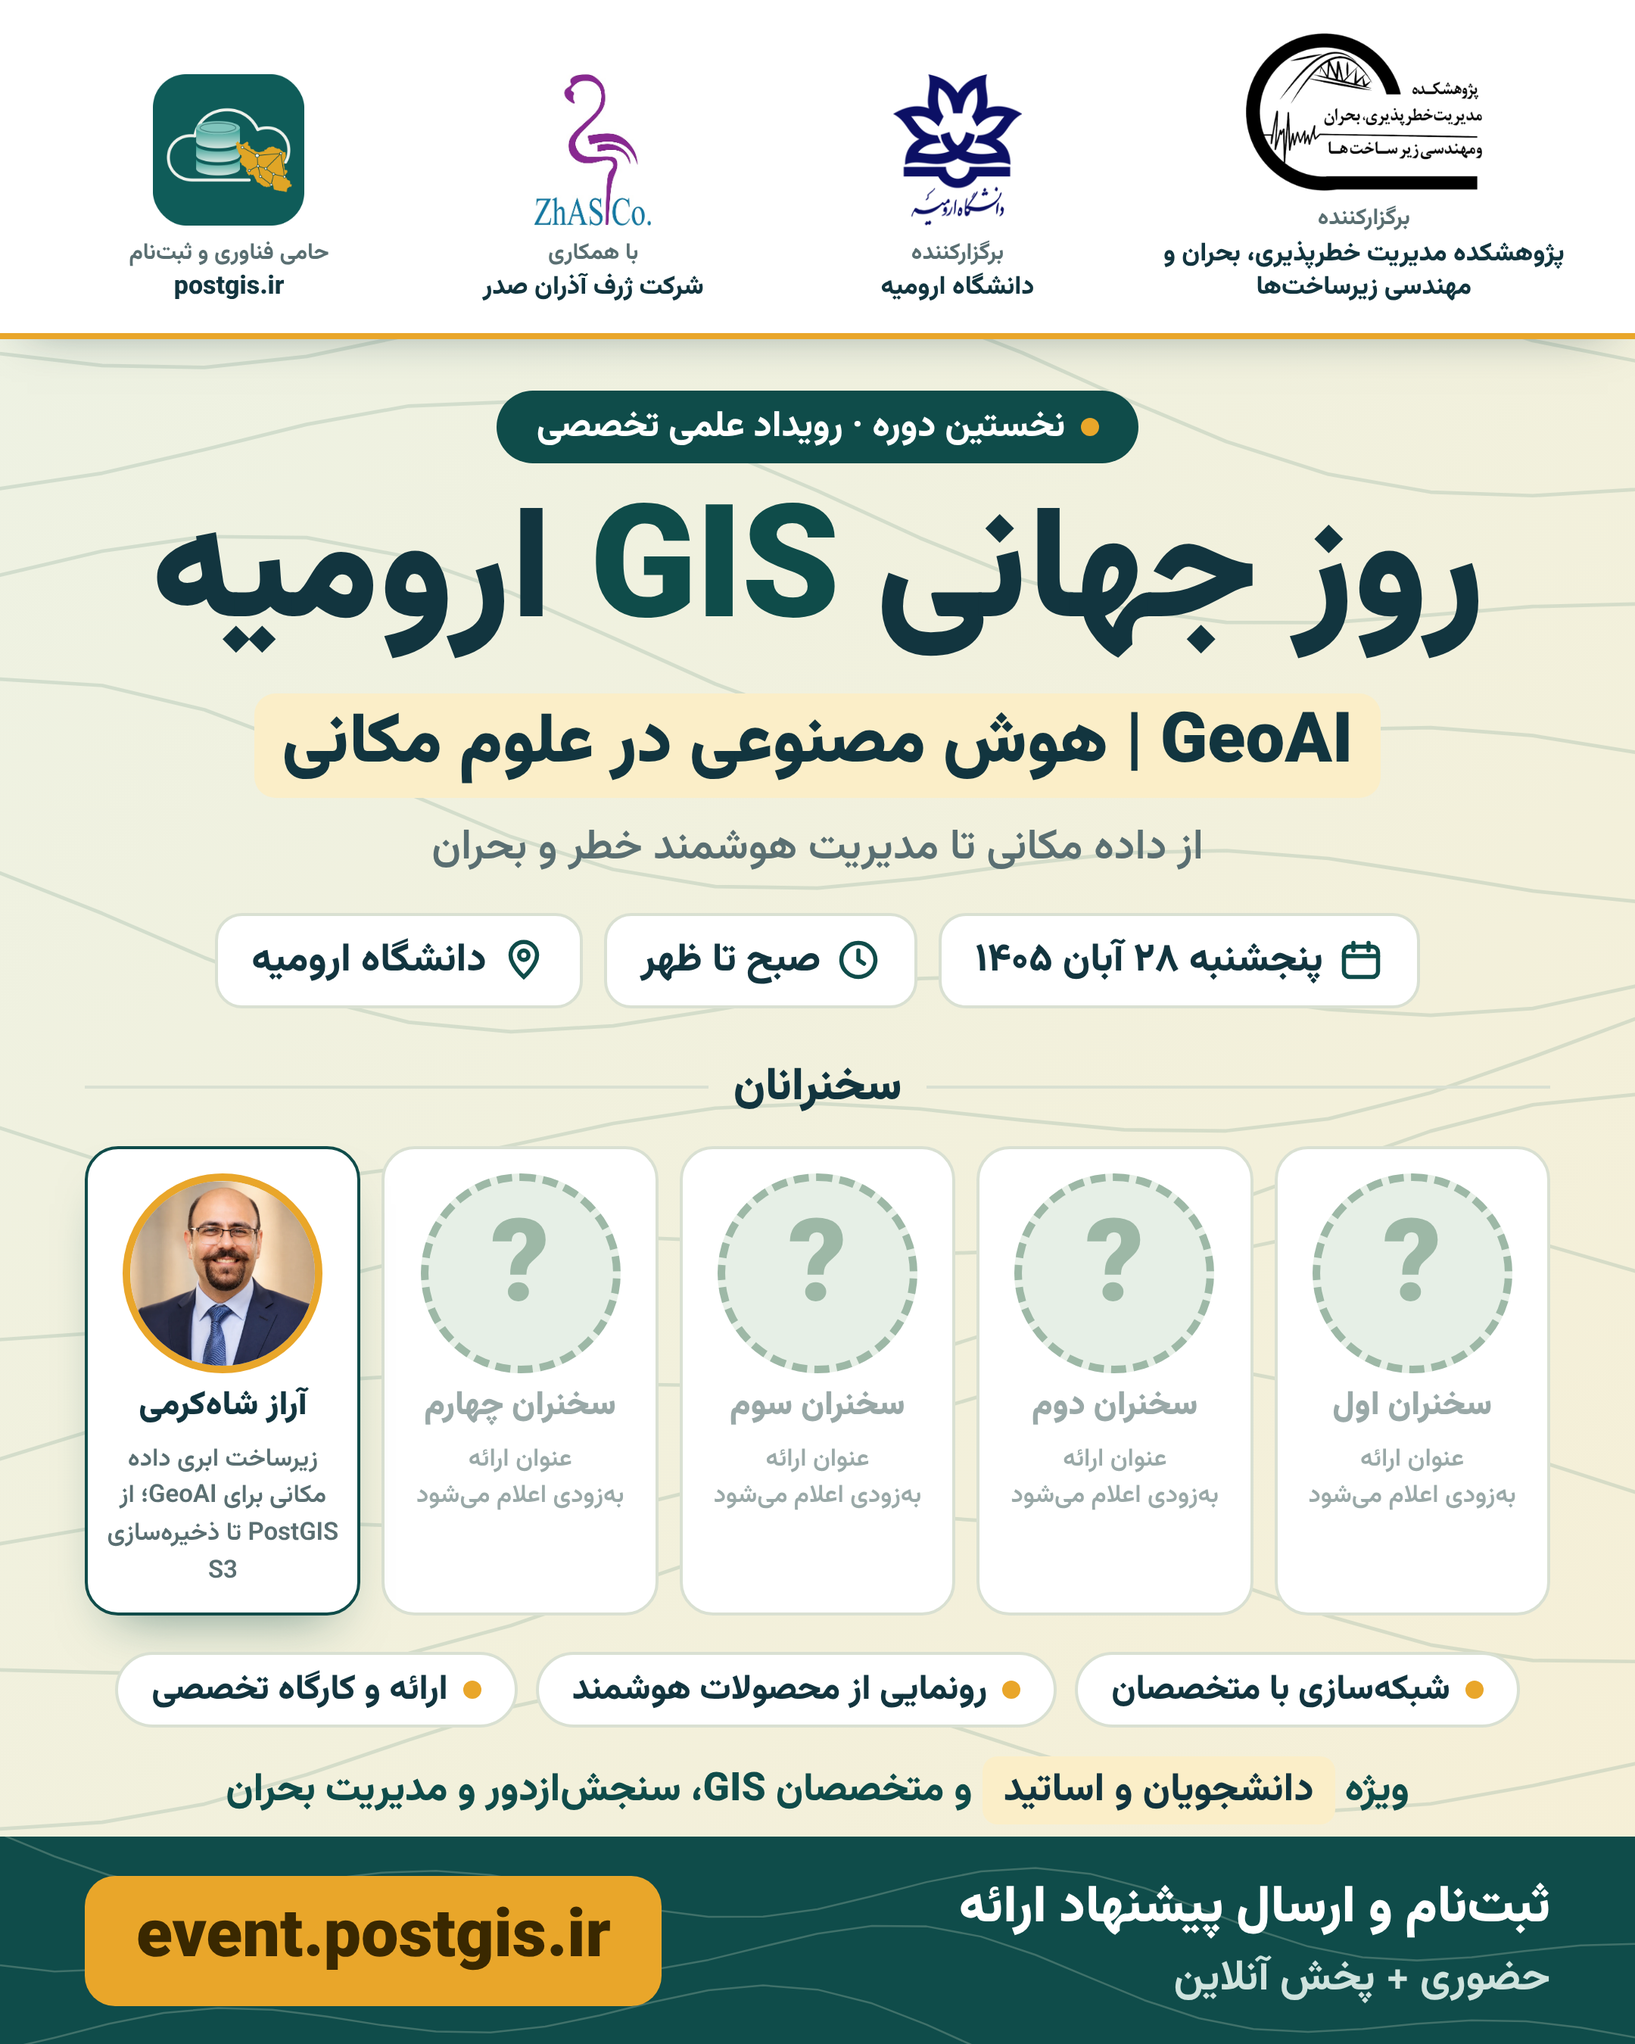
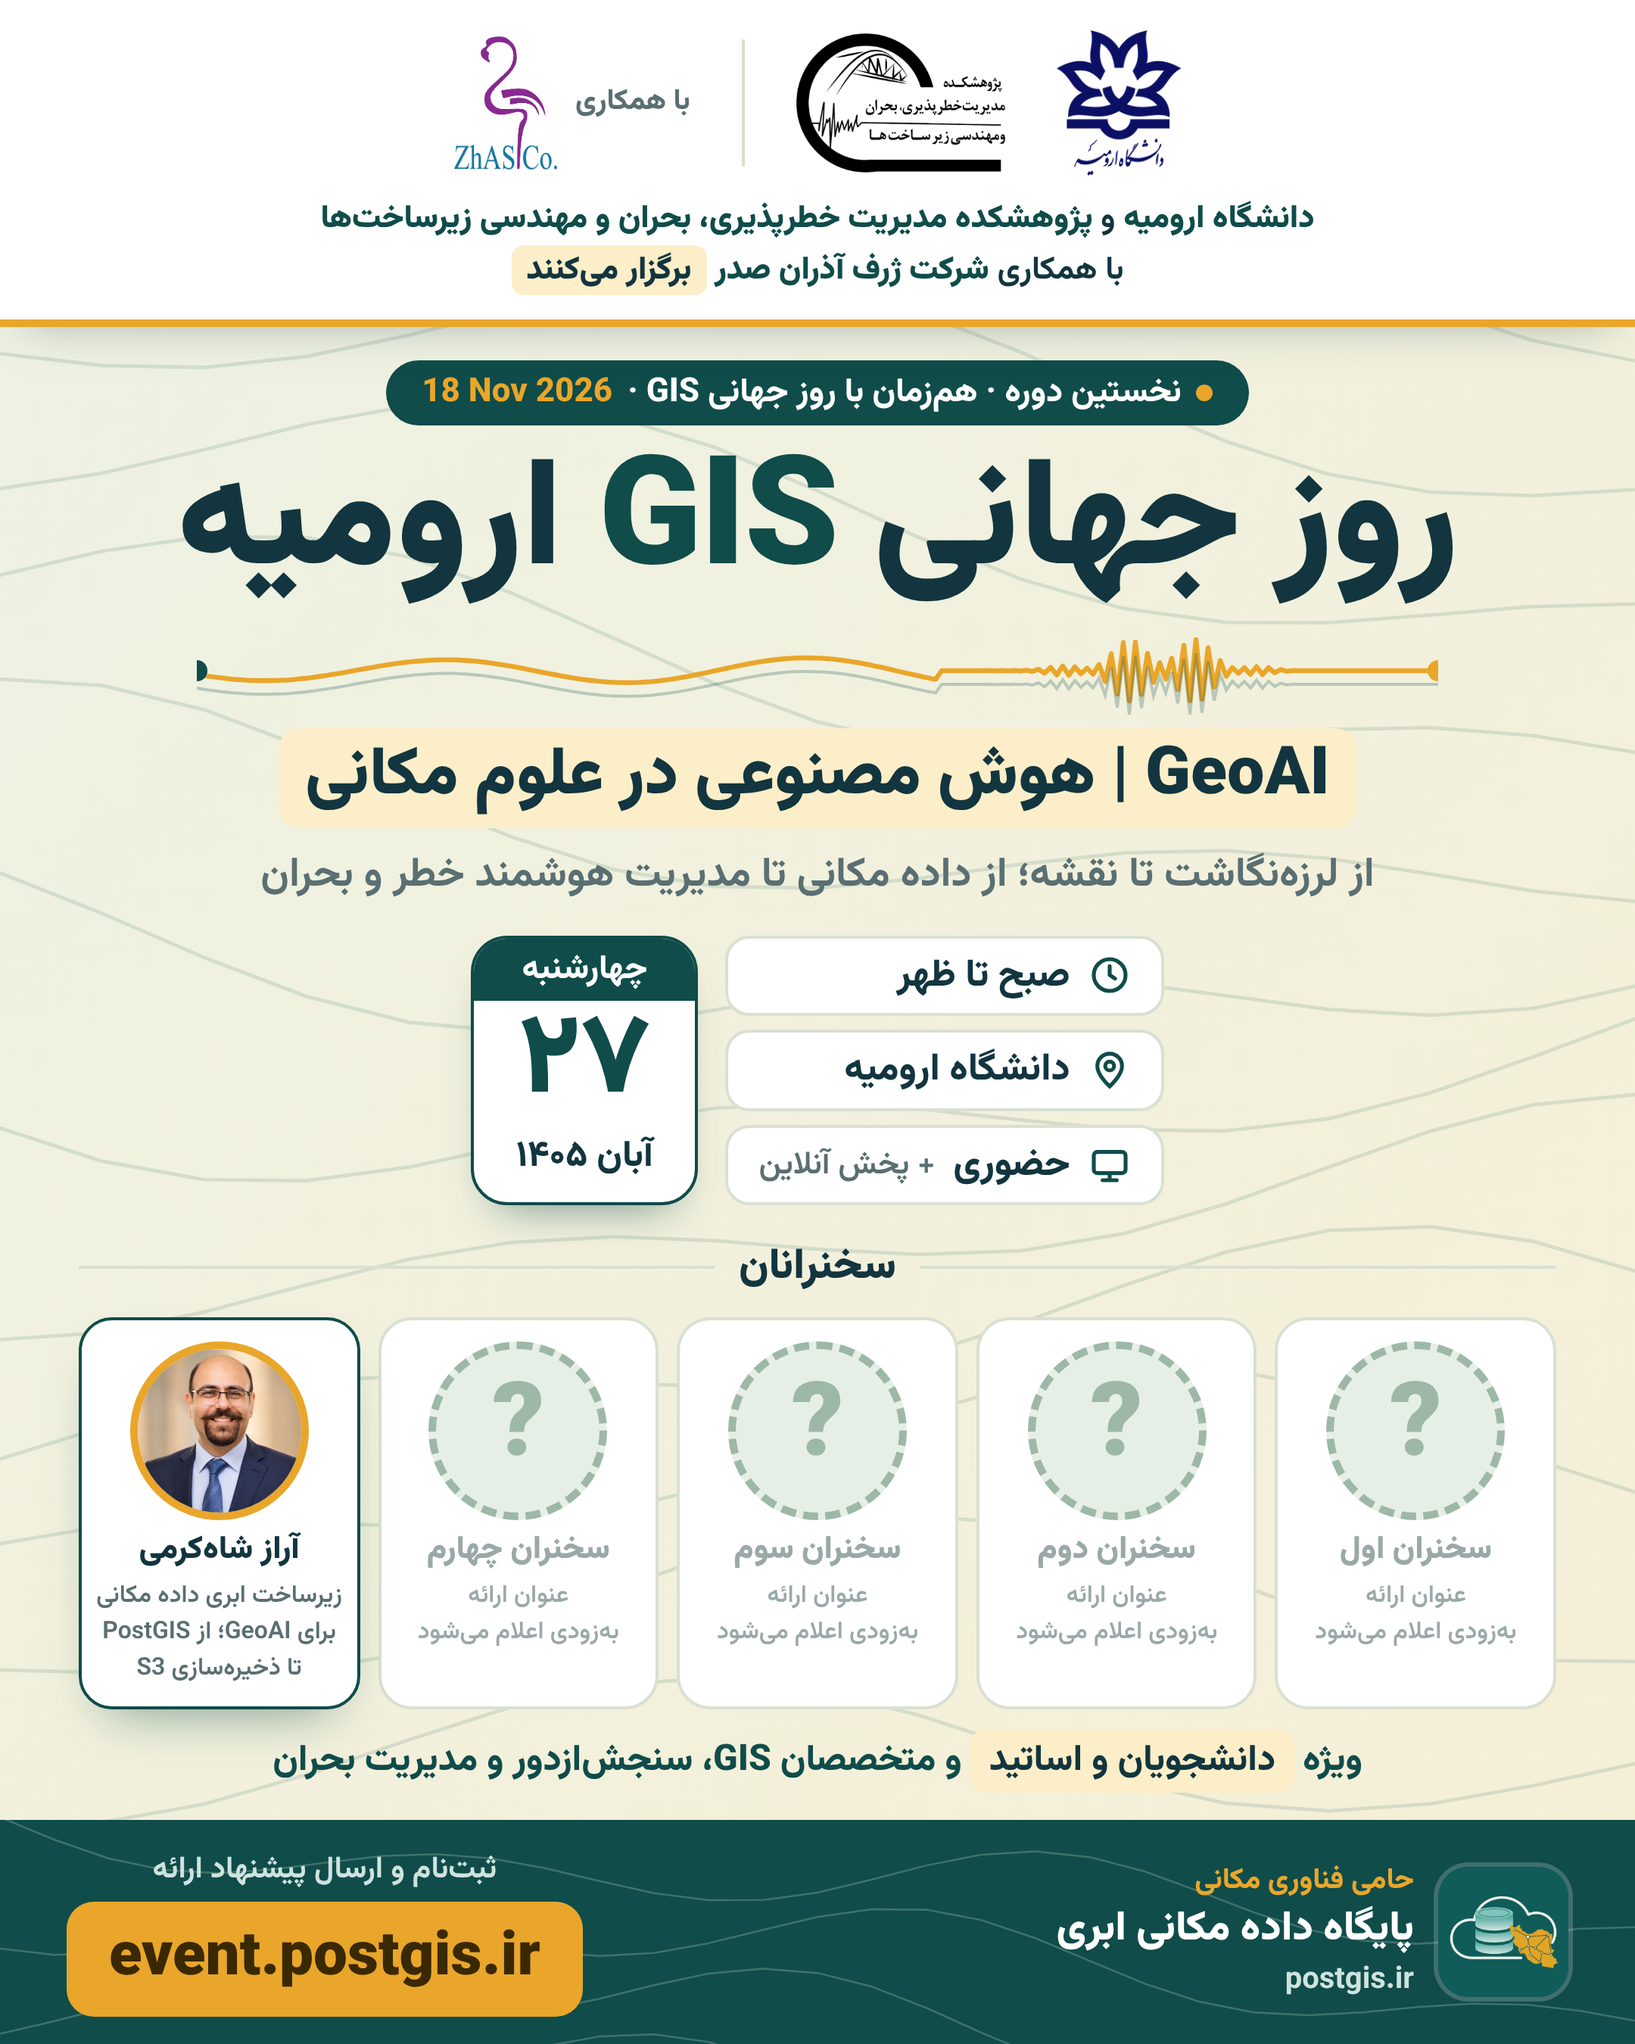
Teaser poster: move to Wed 27 Aban (18 Nov), organiser statement, postgis.ir as spatial tech sponsor
Claude-Session: https://claude.ai/code/session_01611Z92RBWte6qBpQNsvh7V

diff --git a/promo/src/teaser.html b/promo/src/teaser.html
@@ -2,69 +2,103 @@
 <style>
 html,body{width:1080px;height:1350px}
 .wrap{position:absolute;inset:0;display:flex;flex-direction:column}
-/* organisers strip */
-.orgs{background:#fff;border-bottom:4px solid var(--ac);padding:22px 40px 18px;display:grid;grid-template-columns:1.25fr 1fr 1fr 1fr;gap:18px;align-items:end;text-align:center;box-shadow:0 10px 30px -18px #12353f80;position:relative;z-index:2}
-.org img{height:100px;max-width:100%;object-fit:contain;display:block;margin:0 auto 8px}
-.org.inst img{height:104px}
-.org small{display:block;font-size:15px;color:var(--mut);font-weight:700;letter-spacing:0}
-.org b{display:block;font-size:17px;font-weight:800;line-height:1.35;color:var(--tx)}
-.main{flex:1;padding:34px 56px 0;display:flex;flex-direction:column;align-items:center;text-align:center;gap:16px;position:relative}
-.kicker{display:inline-flex;gap:10px;align-items:center;background:var(--pri);color:#fff;font-weight:800;font-size:24px;padding:6px 26px;border-radius:99px}
-.kicker i{width:12px;height:12px;border-radius:50%;background:var(--ac)}
-h1{font-size:104px;font-weight:900;line-height:1.15;letter-spacing:-1px}
+/* organisers */
+.orgs{background:#fff;border-bottom:5px solid var(--ac);padding:20px 40px 16px;text-align:center;position:relative;z-index:2;box-shadow:0 10px 30px -18px #12353f80}
+.logos{display:flex;align-items:center;justify-content:center;gap:34px}
+.logos img{display:block;object-fit:contain}
+.sep{width:2px;height:84px;background:var(--line)}
+.with{display:flex;align-items:center;gap:12px;font-size:19px;font-weight:800;color:var(--mut)}
+.statement{margin-top:12px;font-size:21px;font-weight:700;color:var(--tx);line-height:1.6}
+.statement b{color:var(--pri);font-weight:900}
+.statement .v{background:var(--acsoft);padding:0 10px;border-radius:8px;font-weight:900}
+.main{flex:1;padding:22px 52px 0;display:flex;flex-direction:column;align-items:center;text-align:center;gap:12px;position:relative}
+.kicker{display:inline-flex;gap:10px;align-items:center;background:var(--pri);color:#fff;font-weight:800;font-size:22px;padding:5px 24px;border-radius:99px}
+.kicker i{width:11px;height:11px;border-radius:50%;background:var(--ac)}
+.kicker span{direction:ltr;color:var(--ac)}
+h1{font-size:100px;font-weight:900;line-height:1.1;letter-spacing:-1px}
 h1 em{font-style:normal;color:var(--pri)}
-.axis{font-size:46px;font-weight:900}
-.sub{font-size:28px;font-weight:600;color:var(--mut);margin-top:-4px}
-.info{display:flex;gap:14px;justify-content:center;margin-top:6px}
-.info div{background:#fff;border:2px solid var(--line);border-radius:18px;padding:10px 22px;font-size:26px;font-weight:800;display:flex;gap:10px;align-items:center}
-.info svg{flex:none}
-.speakers{width:100%;margin-top:14px}
-.sp-title{display:flex;align-items:center;gap:16px;font-size:30px;font-weight:900;margin-bottom:16px}
+.wave{margin:-4px 0 -6px}
+.axis{font-size:44px;font-weight:900}
+.sub{font-size:27px;font-weight:700;color:var(--mut)}
+/* date block */
+.when{display:flex;gap:18px;align-items:stretch;margin-top:6px}
+.cal{width:150px;border-radius:24px;overflow:hidden;background:#fff;border:2px solid var(--pri);box-shadow:0 16px 30px -18px #0f4c4aaa;flex:none}
+.cal .h{background:var(--pri);color:#fff;font-size:22px;font-weight:800;padding:4px 0}
+.cal .d{font-size:74px;font-weight:900;line-height:1.15;color:var(--pri)}
+.cal .m{font-size:24px;font-weight:800;padding-bottom:6px}
+.facts{display:flex;flex-direction:column;gap:9px;justify-content:center}
+.facts div{display:flex;align-items:center;gap:12px;background:#fff;border:2px solid var(--line);border-radius:16px;padding:6px 20px;font-size:25px;font-weight:800;text-align:right}
+.facts small{font-weight:600;color:var(--mut);font-size:21px}
+/* speakers */
+.speakers{width:100%;margin-top:8px}
+.sp-title{display:flex;align-items:center;gap:16px;font-size:28px;font-weight:900;margin-bottom:12px}
 .sp-title:before,.sp-title:after{content:"";flex:1;height:2px;background:var(--line)}
-.grid{display:grid;grid-template-columns:repeat(5,1fr);gap:14px}
-.sp{background:#fff;border:2px solid var(--line);border-radius:22px;padding:16px 10px 14px;display:flex;flex-direction:column;align-items:center;gap:8px}
-.ph{width:132px;height:132px;border-radius:50%;border:5px solid var(--ac);overflow:hidden;background:var(--bg2);display:grid;place-items:center;font-size:76px;font-weight:900;color:var(--pri)}
+.grid{display:grid;grid-template-columns:repeat(5,1fr);gap:12px}
+.sp{background:#fff;border:2px solid var(--line);border-radius:22px;padding:14px 8px 12px;display:flex;flex-direction:column;align-items:center;gap:6px}
+.ph{width:118px;height:118px;border-radius:50%;border:5px solid var(--ac);overflow:hidden;background:var(--bg2);display:grid;place-items:center;font-size:68px;font-weight:900;color:var(--pri)}
 .ph img{width:100%;height:100%;object-fit:cover}
 .sp.ghost .ph{border-style:dashed;border-color:#9db8a6;color:#9db8a6}
-.sp .nm{font-size:22px;font-weight:900;line-height:1.3}
-.sp .tt{font-size:16.5px;font-weight:600;color:var(--mut);line-height:1.5}
+.sp .nm{font-size:21px;font-weight:900;line-height:1.3}
+.sp .tt{font-size:16px;font-weight:600;color:var(--mut);line-height:1.5}
 .sp.ghost .nm,.sp.ghost .tt{color:#9aa9a8}
 .sp.star{border-color:var(--pri);box-shadow:0 18px 36px -20px #0f4c4a99}
-.for{font-size:26px;font-weight:800;color:var(--pri);margin-top:6px}
-.for span{background:var(--acsoft);padding:2px 14px;border-radius:10px;color:var(--tx)}
-.feats{display:flex;gap:12px;justify-content:center;margin-top:8px}.feats div{background:#fff;border:2px solid var(--line);border-radius:99px;padding:6px 22px;font-size:23px;font-weight:800}.feats div:before{content:'';display:inline-block;width:12px;height:12px;border-radius:50%;background:var(--ac);margin-inline-end:10px}
-.cta{margin-top:auto;background:var(--pri);color:#fff;padding:22px 56px;display:flex;align-items:center;justify-content:space-between;background-image:url(../../core/static/core/contours.svg);background-size:cover}
-.cta .l{font-size:28px;font-weight:700;color:#cfe3de}.cta .l b{display:block;color:#fff;font-size:34px;font-weight:900}
-.cta .u{direction:ltr;background:var(--ac);color:#3a2800;font-size:44px;font-weight:900;padding:10px 34px;border-radius:20px}
+.for{font-size:24px;font-weight:800;color:var(--pri);margin-top:4px}
+.for span{background:var(--acsoft);padding:2px 12px;border-radius:10px;color:var(--tx)}
+/* bottom */
+.bottom{margin-top:auto;background:var(--pri);color:#fff;padding:18px 44px;display:flex;align-items:center;justify-content:space-between;gap:24px;background-image:url(../../core/static/core/contours.svg);background-size:cover}
+.spon{display:flex;align-items:center;gap:16px}
+.spon img{width:86px;height:86px;border-radius:20px;box-shadow:0 0 0 3px #ffffff33}
+.spon small{display:block;color:var(--ac);font-size:19px;font-weight:800}
+.spon b{display:block;font-size:27px;font-weight:900;line-height:1.35}
+.spon span{display:block;direction:ltr;text-align:right;color:#cfe3de;font-size:20px;font-weight:700}
+.reg{text-align:center}
+.reg small{display:block;font-size:20px;font-weight:700;color:#cfe3de;margin-bottom:6px}
+.reg .u{direction:ltr;background:var(--ac);color:#3a2800;font-size:40px;font-weight:900;padding:8px 28px;border-radius:18px}
 </style></head><body>
 <div class="bg"></div>
 <div class="wrap">
  <div class="orgs">
-  <div class="org inst"><img src="../assets/logo-pajooheshkadeh-trim.png"><small>برگزارکننده</small><b>پژوهشکده مدیریت خطرپذیری، بحران و مهندسی زیرساختها</b></div>
-  <div class="org"><img src="../assets/logo-urmia-university-trim.png"><small>برگزارکننده</small><b>دانشگاه ارومیه</b></div>
-  <div class="org"><img src="../assets/logo-zhasco-trim.png"><small>با همکاری</small><b>شرکت ژرف آذران صدر</b></div>
-  <div class="org"><img src="../assets/logo-postgis.png" style="border-radius:18px"><small>حامی فناوری و ثبتنام</small><b>postgis.ir</b></div>
+  <div class="logos">
+   <img src="../assets/logo-urmia-university-trim.png" style="height:96px">
+   <img src="../assets/logo-pajooheshkadeh-trim.png" style="height:92px">
+   <div class="sep"></div>
+   <div class="with">با همکاری<img src="../assets/logo-zhasco-trim.png" style="height:88px"></div>
+  </div>
+  <div class="statement"><b>دانشگاه ارومیه</b> و <b>پژوهشکده مدیریت خطرپذیری، بحران و مهندسی زیرساختها</b><br>با همکاری <b>شرکت ژرف آذران صدر</b> <span class="v">برگزار میکنند</span></div>
  </div>
  <div class="main">
-  <div class="kicker"><i></i>نخستین دوره · رویداد علمی تخصصی</div>
+  <div class="kicker"><i></i>نخستین دوره · همزمان با روز جهانی GIS · <span>18 Nov 2026</span></div>
   <h1>روز جهانی <em>GIS</em> ارومیه</h1>
+  <div class="wave" id="wave"></div>
   <div class="axis"><mark>GeoAI | هوش مصنوعی در علوم مکانی</mark></div>
-  <div class="sub">از داده مکانی تا مدیریت هوشمند خطر و بحران</div>
-  <div class="info">
-   <div><svg width="30" height="30" viewBox="0 0 24 24" fill="none" stroke="#0f4c4a" stroke-width="2.2" stroke-linecap="round"><rect x="3" y="5" width="18" height="16" rx="3"/><path d="M3 10h18M8 3v4M16 3v4"/></svg>پنجشنبه ۲۸ آبان ۱۴۰۵</div>
-   <div><svg width="30" height="30" viewBox="0 0 24 24" fill="none" stroke="#0f4c4a" stroke-width="2.2" stroke-linecap="round"><circle cx="12" cy="12" r="9"/><path d="M12 7v5l3 2"/></svg>صبح تا ظهر</div>
-   <div><svg width="30" height="30" viewBox="0 0 24 24" fill="none" stroke="#0f4c4a" stroke-width="2.2" stroke-linecap="round"><path d="M12 21s-7-6.2-7-11.5A7 7 0 0 1 19 9.5C19 14.8 12 21 12 21z"/><circle cx="12" cy="9.5" r="2.5"/></svg>دانشگاه ارومیه</div>
+  <div class="sub">از لرزهنگاشت تا نقشه؛ از داده مکانی تا مدیریت هوشمند خطر و بحران</div>
+  <div class="when">
+   <div class="facts">
+    <div><svg width="28" height="28" viewBox="0 0 24 24" fill="none" stroke="#0f4c4a" stroke-width="2.2" stroke-linecap="round"><circle cx="12" cy="12" r="9"/><path d="M12 7v5l3 2"/></svg>صبح تا ظهر</div>
+    <div><svg width="28" height="28" viewBox="0 0 24 24" fill="none" stroke="#0f4c4a" stroke-width="2.2" stroke-linecap="round"><path d="M12 21s-7-6.2-7-11.5A7 7 0 0 1 19 9.5C19 14.8 12 21 12 21z"/><circle cx="12" cy="9.5" r="2.5"/></svg>دانشگاه ارومیه</div>
+    <div><svg width="28" height="28" viewBox="0 0 24 24" fill="none" stroke="#0f4c4a" stroke-width="2.2" stroke-linecap="round"><rect x="3" y="5" width="18" height="12" rx="2"/><path d="M8 21h8M12 17v4"/></svg>حضوری <small>+ پخش آنلاین</small></div>
+   </div>
+   <div class="cal"><div class="h">چهارشنبه</div><div class="d">۲۷</div><div class="m">آبان ۱۴۰۵</div></div>
   </div>
   <div class="speakers">
    <div class="sp-title">سخنرانان</div>
    <div class="grid" id="grid"></div>
   </div>
-  <div class="feats"><div>شبکهسازی با متخصصان</div><div>رونمایی از محصولات هوشمند</div><div>ارائه و کارگاه تخصصی</div></div>
   <div class="for">ویژه <span>دانشجویان و اساتید</span> و متخصصان GIS، سنجشازدور و مدیریت بحران</div>
  </div>
- <div class="cta"><div class="l"><b>ثبتنام و ارسال پیشنهاد ارائه</b>حضوری + پخش آنلاین</div><div class="u">event.postgis.ir</div></div>
+ <div class="bottom">
+  <div class="spon"><img src="../assets/logo-postgis.png"><div><small>حامی فناوری مکانی</small><b>پایگاه داده مکانی ابری</b><span>postgis.ir</span></div></div>
+  <div class="reg"><small>ثبتنام و ارسال پیشنهاد ارائه</small><div class="u">event.postgis.ir</div></div>
+ </div>
 </div>
 <script>
+// seismogram that calms down into a contour line: hazard data -> spatial insight
+(function(){const W=820,H=64,m=H/2;let d=`M0 ${m}`;
+ for(let x=0;x<=W;x+=4){let y=m;
+  if(x>90&&x<330){const k=(x-90)/240,a=Math.sin(Math.PI*k)*Math.exp(-((k-.35)**2)/.05)*28;y=m+(x/4%2?a:-a)*(0.6+0.4*Math.sin(x*1.7))}
+  else if(x>=330){const k=(x-330)/(W-330);y=m+9*Math.sin(x/38)*(1-k*0.3)}
+  d+=` L${x} ${y.toFixed(1)}`}
+ document.getElementById('wave').innerHTML=`<svg width="${W}" height="${H}" viewBox="0 0 ${W} ${H}" style="display:block;transform:scaleX(-1)"><path d="${d}" fill="none" stroke="#e9a62a" stroke-width="3.2" stroke-linejoin="round" stroke-linecap="round"/><path d="${d}" fill="none" stroke="#0f4c4a" stroke-opacity=".25" stroke-width="2" transform="translate(0 9)"/><circle cx="${W}" cy="${m}" r="7" fill="#0f4c4a"/><circle cx="0" cy="${m}" r="7" fill="#e9a62a"/></svg>`;})();
 const g=document.getElementById('grid');
 const ghost=i=>`<div class="sp ghost"><div class="ph">?</div><div class="nm">سخنران ${['اول','دوم','سوم','چهارم'][i]}</div><div class="tt">عنوان ارائه<br>بهزودی اعلام میشود</div></div>`;
 g.innerHTML=[0,1,2,3].map(ghost).join('')+`<div class="sp star"><div class="ph"><img src="../assets/speaker-araz.webp"></div><div class="nm">آراز شاهکرمی</div><div class="tt">زیرساخت ابری داده مکانی برای GeoAI؛ از PostGIS تا ذخیرهسازی S3</div></div>`;
